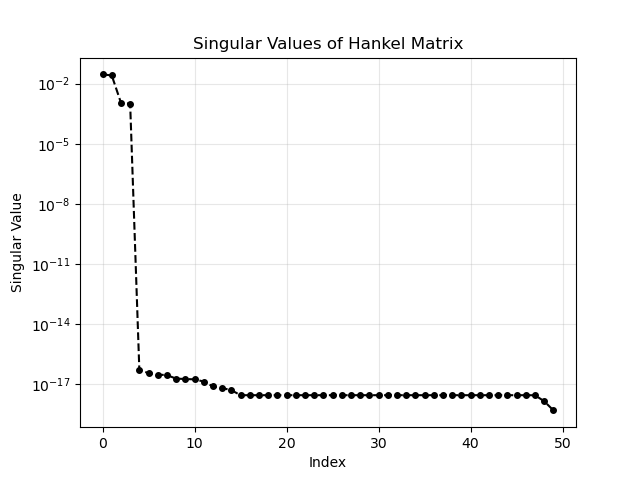
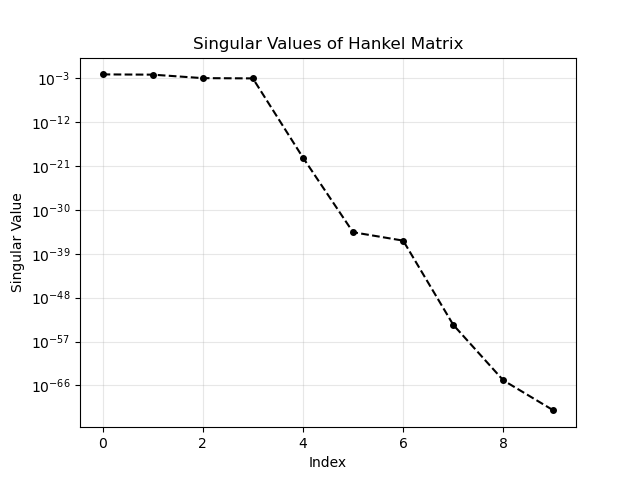
Something pushed a little late

diff --git a/Problem_4_2nd.py b/Problem_4_2nd.py
@@ -256,44 +256,46 @@ axes[1, 1].grid(alpha = 0.25)
 plt.savefig(f'figures/Problem4/Problem_4_Stepresponse.png')
 plt.close()
 
-def Hankel_Matrix(p_rows=10, q_cols=10):
-    """
-    Compute the Hankel matrix from Markov parameters
-    
-    Parameters:
-    p_rows: number of block rows
-    q_cols: number of block columns
-    
-    Returns:
-    H_hankel: Hankel matrix of shape (p*ny, q*nu) where ny=2, nu=2
-    """
-    ny = 2  # number of outputs
-    nu = 2  # number of inputs
-    
-    # Initialize Hankel matrix
-    H_hankel = np.zeros((p_rows * ny, q_cols * nu))
-    
-    # Fill the Hankel matrix with Markov parameters
-    for i in range(p_rows):
-        for j in range(q_cols):
-            # Get Markov parameters for time step i+j
-            h_ij = np.zeros((ny, nu))
-            
-            # Fill the block at position (i,j)
-            for out_idx in range(ny):
-                for in_idx in range(nu):
-                    # Get the Markov parameter for output out_idx, input in_idx, at time i+j
-                    markov_param = H(out_idx, in_idx, [i + j])
-                    h_ij[out_idx, in_idx] = markov_param[0][0]
-            
-            # Place the block in the Hankel matrix
-            H_hankel[i*ny:(i+1)*ny, j*nu:(j+1)*nu] = h_ij
-    
-    return H_hankel
+def Hankel_matrix(markov_params, r, s):
+
+    n, p, m = markov_params.shape
+    print(n, p, m)
+    print((r*p, s*m))
+    H = np.zeros((r*p, s*m))
+
+    # Create Hankel matrix 
+    for i in range(r):
+        for j in range(s):
+            H[i*p:(i+1)*p, j*m:(j+1)*m] = markov_params[i+j]
+
+    # Split Hankel matrix into past and future parts
+    #Hp = H[:p*r//2, :m*s//2]  # past
+    #Hf = H[p*r//2:, :m*s//2]  # future 
+    Hp = H
+    # SVD decomposition
+    U, S, Vt = np.linalg.svd(Hp, full_matrices=False)
+
+    # Determine system order from singular values 
+    n = np.sum(S > 1e-10)  # threshold for numerical stability  
+
+    # Calculate observability and controllability matrices
+    Sigma_sqrt = np.diag(np.sqrt(S[:n]))
+    Or = U[:, :n] @ Sigma_sqrt  # observability matrix
+    Cr = Sigma_sqrt @ Vt[:n, :]  # controllability matrix
+
+    # Extract A, B, C matrices
+    C = Or[:p, :]
+    A = np.linalg.pinv(Or[:-p, :]) @ Or[p:, :]
+    B = Cr[:, :m]
+
+    return H, A, B, C, S
 
 # Compute and display the Hankel matrix
 print("Computing Hankel Matrix...")
-H_hankel = Hankel_Matrix(p_rows=25, q_cols=25)
+markov_params = np.zeros((N, 2, 2))
+for k in range(markov_mat.shape[2]):
+    markov_params[k, :, :] = markov_mat[:, :, k]
+H_hankel, A, B, C, S = Hankel_matrix(markov_params, 5, 5)
 # print(H_hankel)
 
 # Compute SVD of Hankel matrix for system order estimation
@@ -308,26 +310,6 @@ plt.title('Singular Values of Hankel Matrix')
 plt.grid(True, alpha=0.3)
 plt.savefig('figures/Problem4/Problem_4_Hankel_SingularValues.png')
 plt.close()
-
-# Estimate system order based on singular values
-# Look for a significant drop in singular values
-threshold = 1e-17  # 1% of the largest singular value
-significant_singular_values = S[S > threshold * S[0]]
-estimated_order = len(significant_singular_values)
-
-N = 6
-
-S_sqrt = np.diag(np.sqrt(S[:N]))
-
-
-Oo = K[:, :N]@S_sqrt
-Co = S_sqrt@Lt[:N, :]
-
-B = Co[:,:2]
-C = Oo[:2, :]
-A = np.linalg.inv(S_sqrt)@K[:, :N].T@H_hankel@Lt[:N, :].T@np.linalg.inv(S_sqrt)
-A_test = np.linalg.pinv(Oo) @ Oo
-print(np.linalg.norm(A - A_test))
 
 D = np.array([
     [H(0, 0, [0])[0][0], H(0, 1, [0])[0][0]],

diff --git a/Problem_5.py b/Problem_5.py
@@ -111,15 +111,15 @@ def Hankel_matrix(markov_params, r, s):
     Hp = H
     # SVD decomposition
     U, S, Vt = np.linalg.svd(Hp, full_matrices=False)
-    
+
     # Determine system order from singular values 
     n = np.sum(S > 1e-10)  # threshold for numerical stability  
-    
+
     # Calculate observability and controllability matrices
     Sigma_sqrt = np.diag(np.sqrt(S[:n]))
     Or = U[:, :n] @ Sigma_sqrt  # observability matrix
     Cr = Sigma_sqrt @ Vt[:n, :]  # controllability matrix
-    
+
     # Extract A, B, C matrices
     C = Or[:p, :]
     A = np.linalg.pinv(Or[:-p, :]) @ Or[p:, :]
